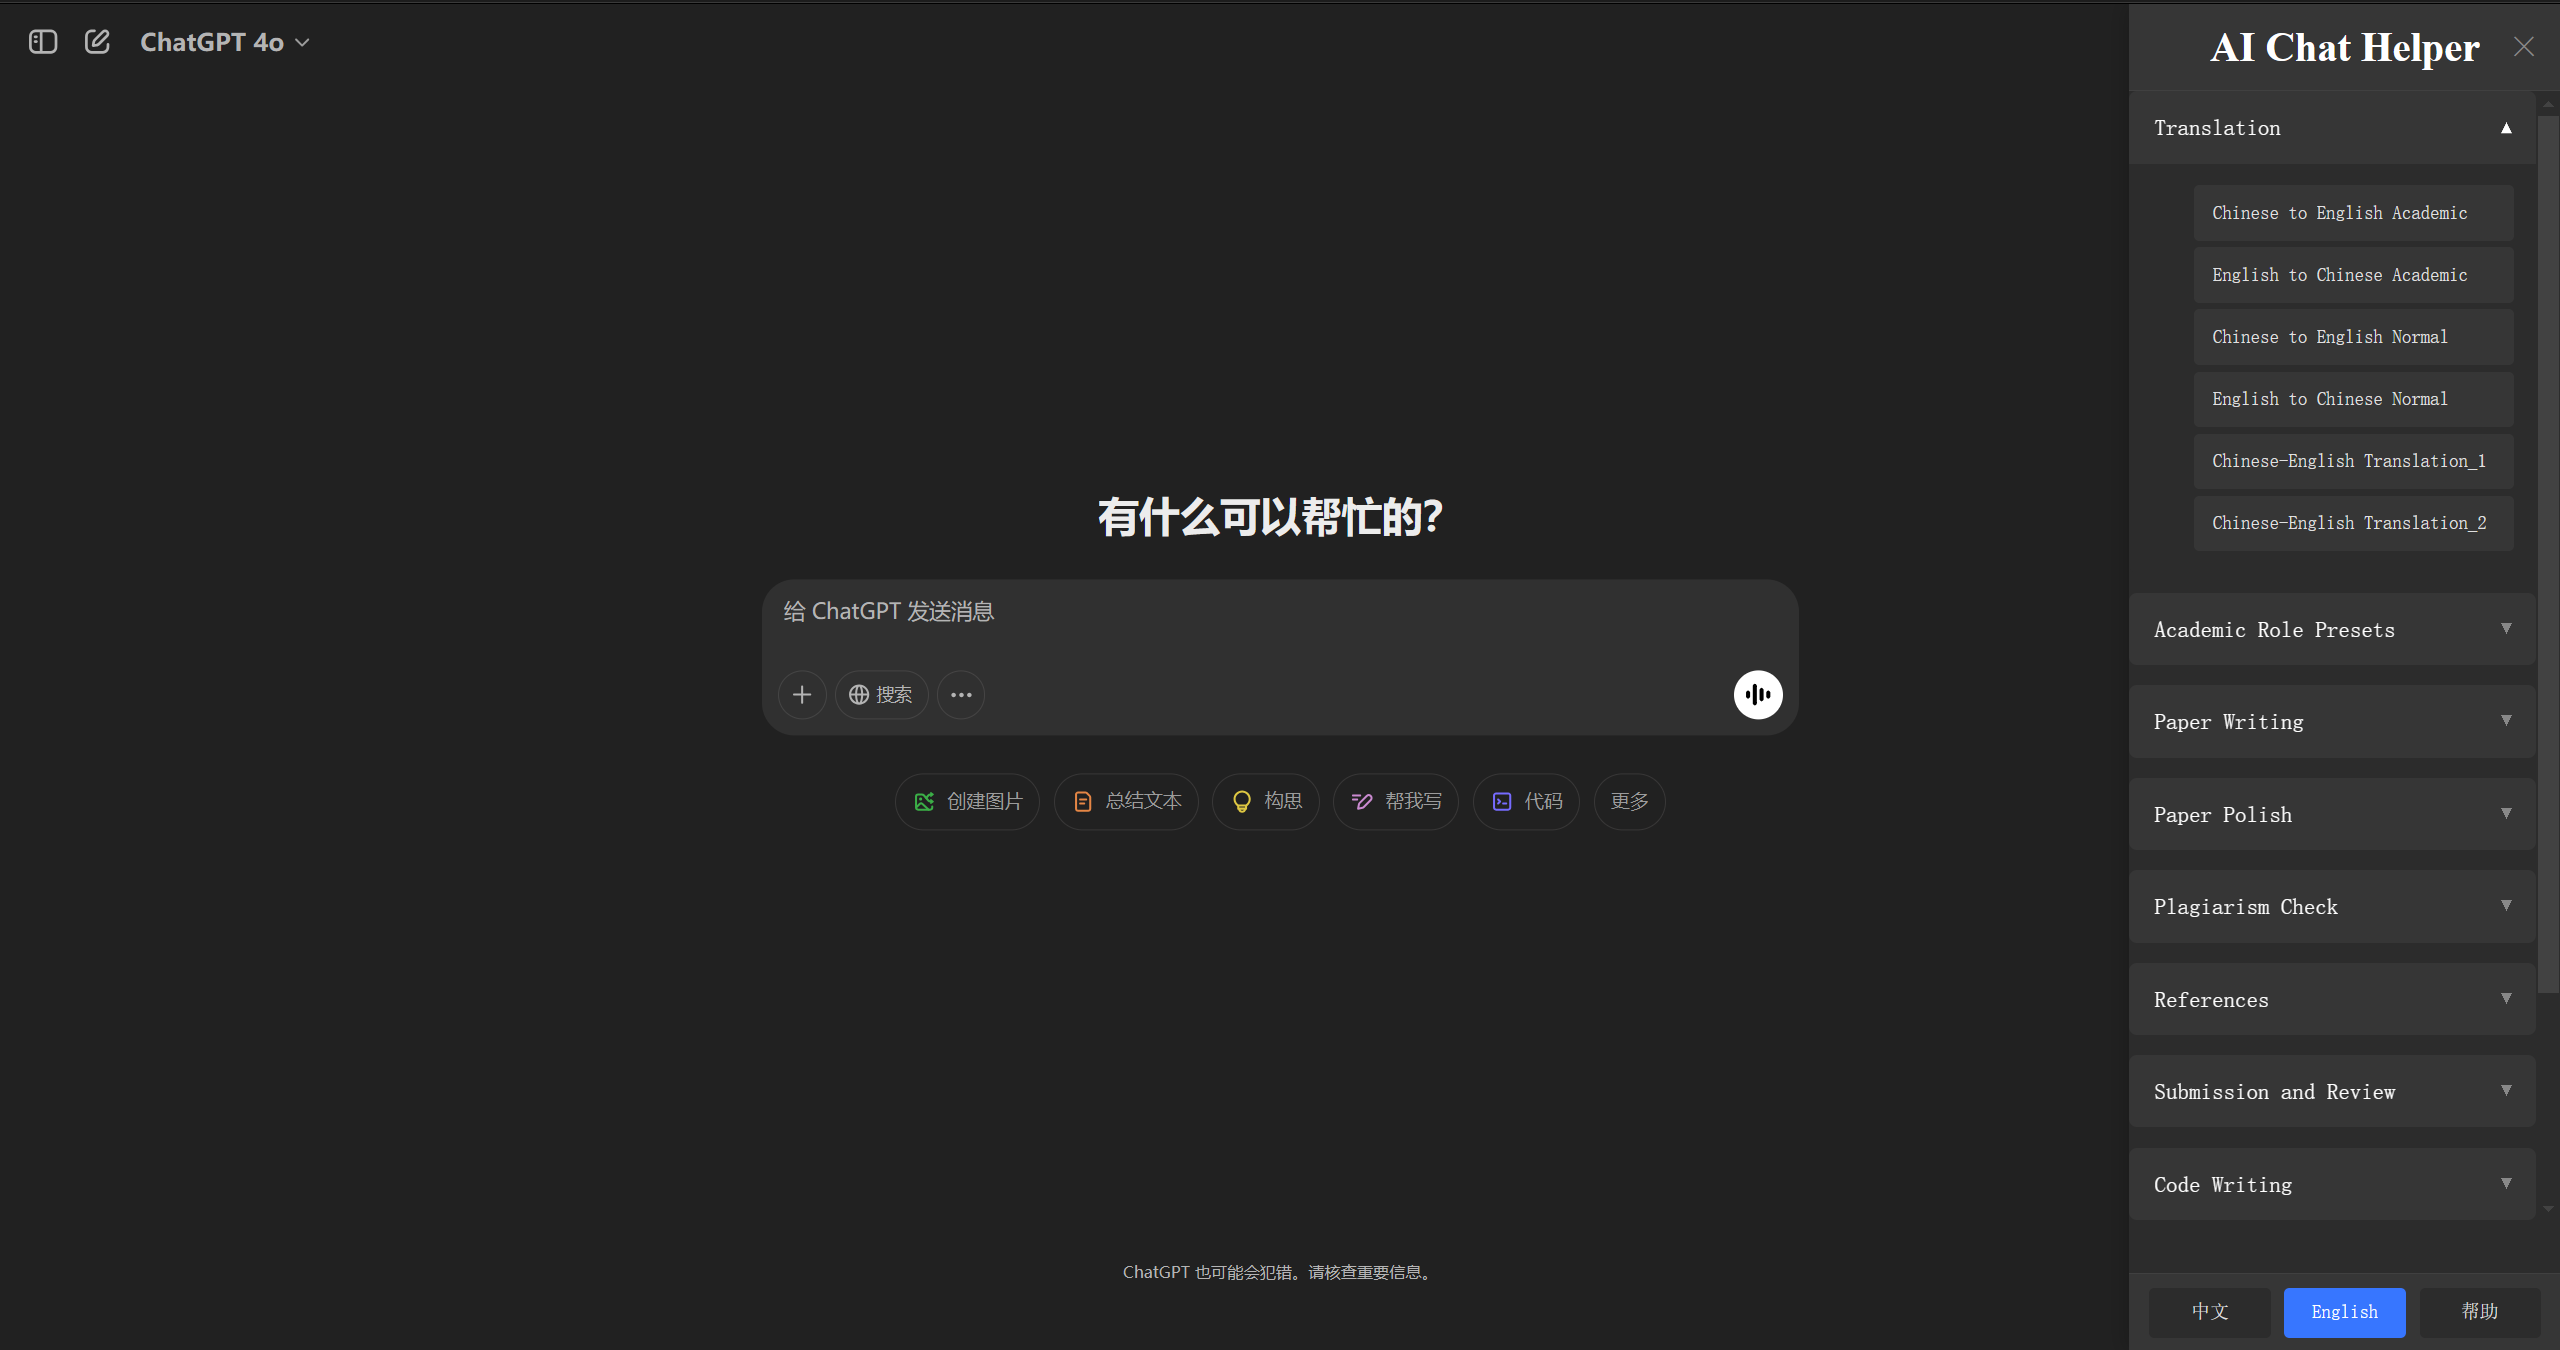
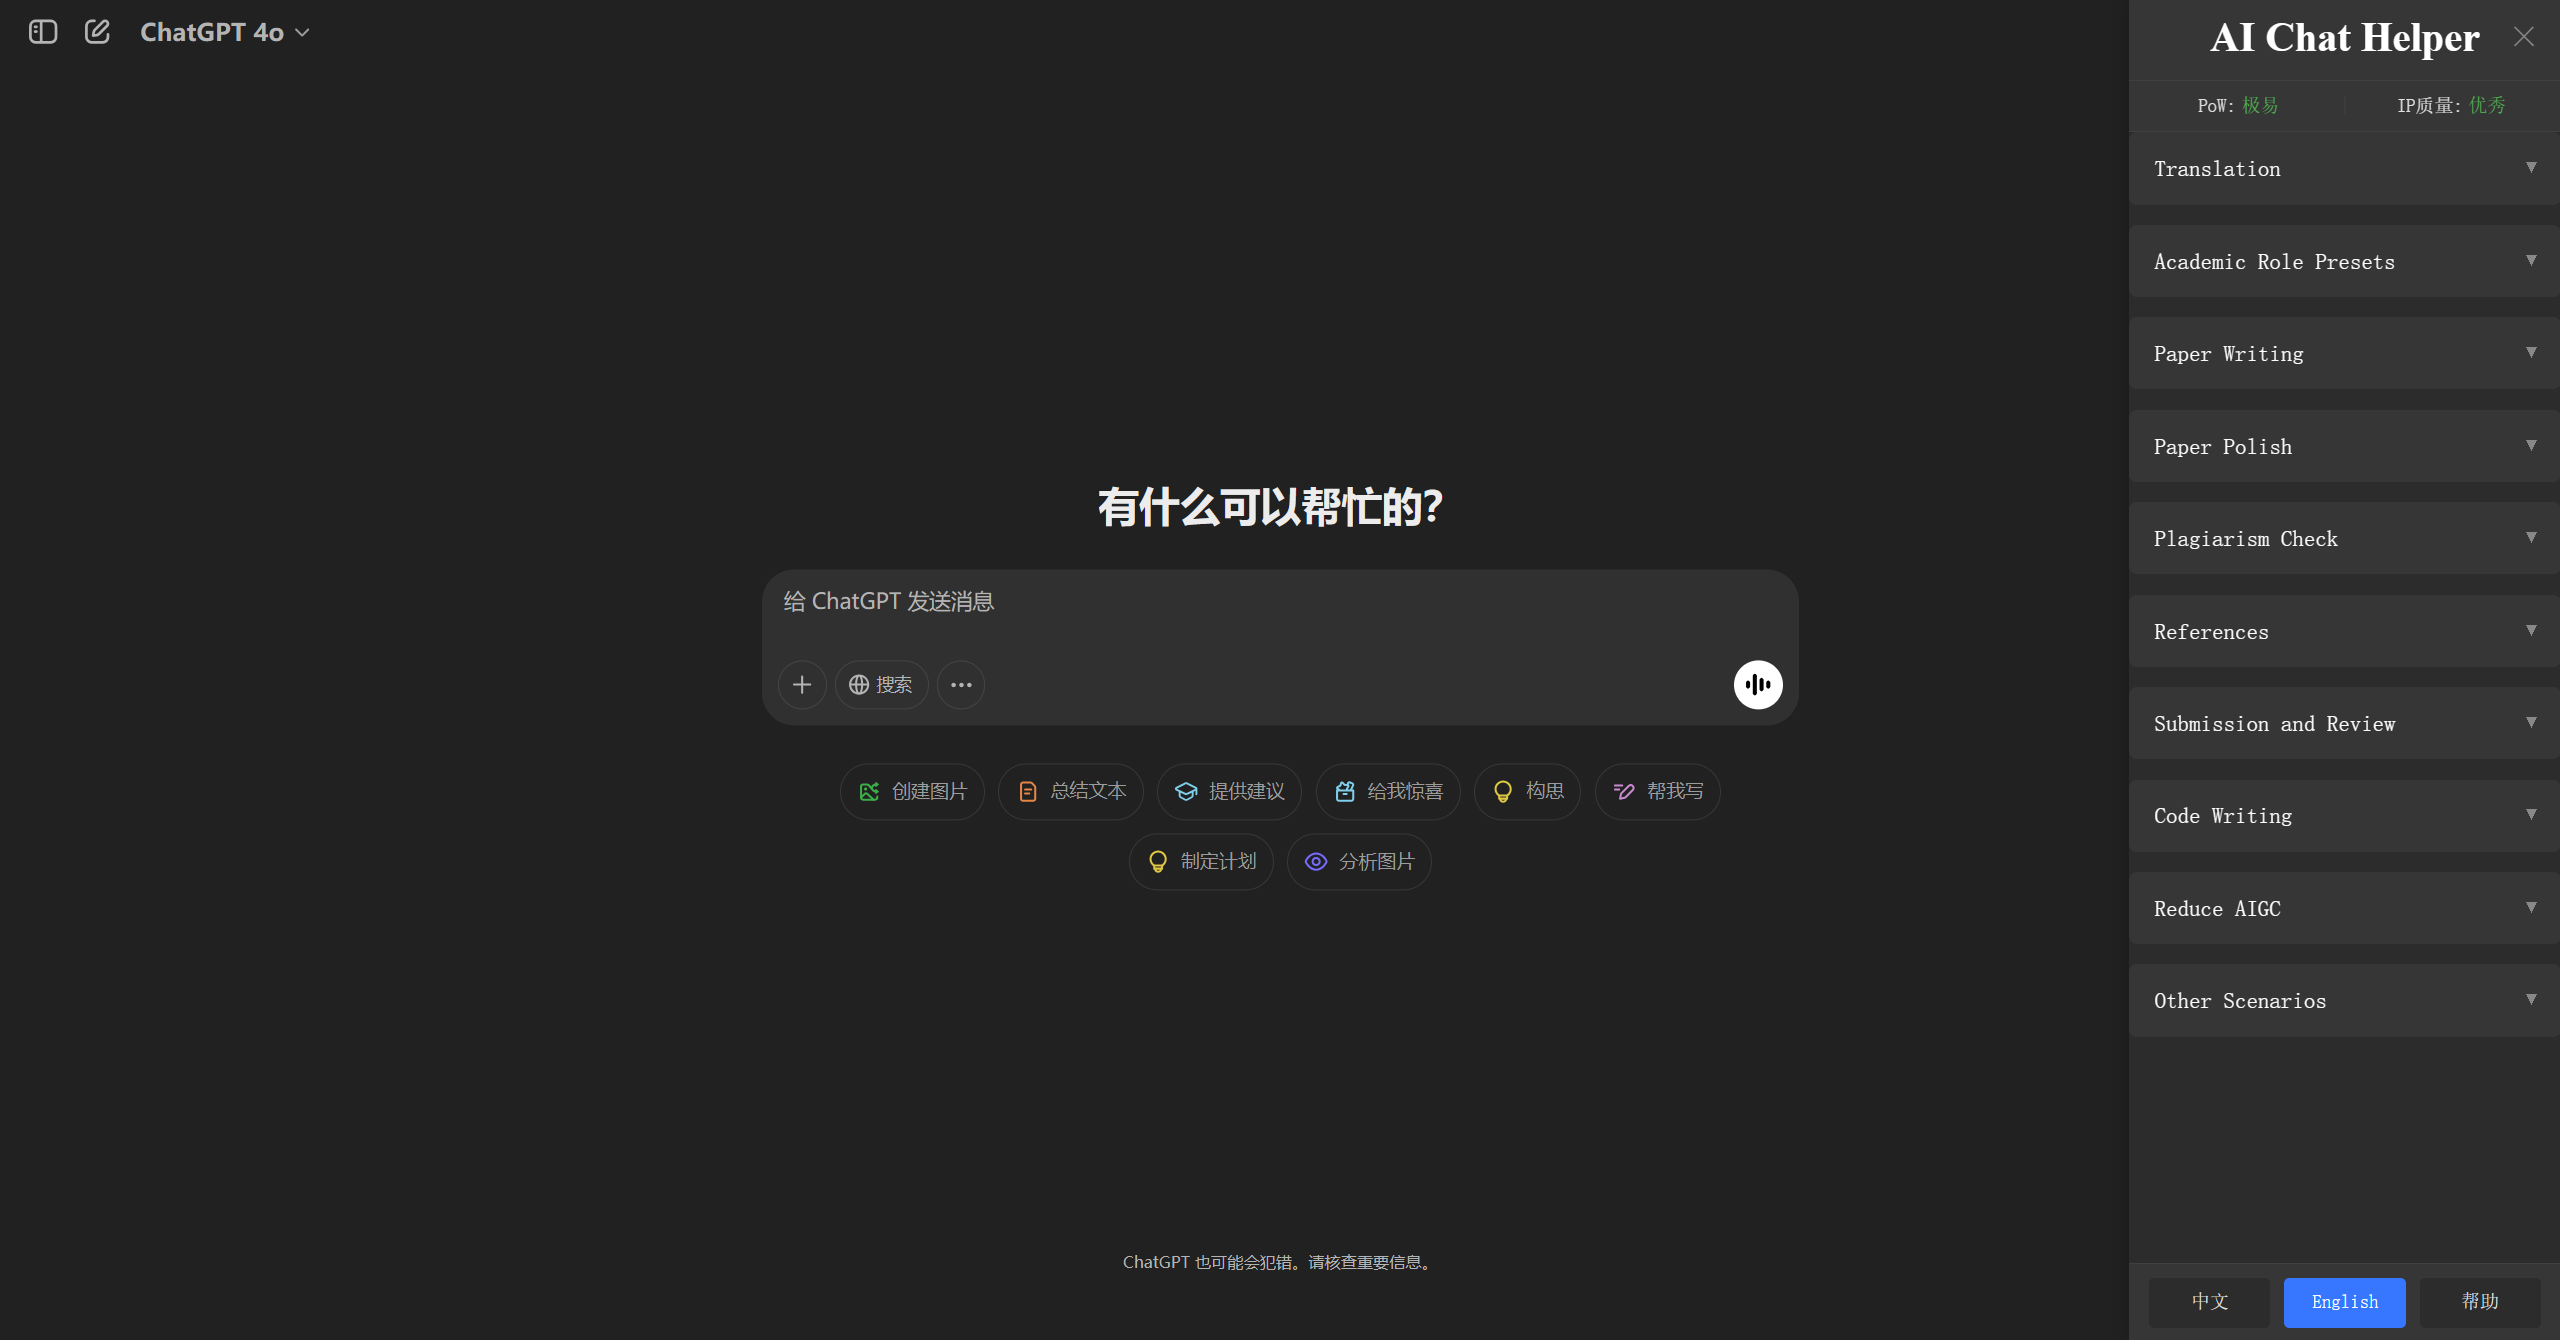
UpdateV1.1

diff --git a/chat_ai_helper.js b/chat_ai_helper.js
@@ -21,6 +21,7 @@
     if (document.querySelector("#ChatAIHelper")) {
         return;
     }
+
     // 定义菜单结构
     const MENU_STRUCTURE_English = {
         "Translation": [
@@ -225,6 +226,11 @@
                 <h2>AI Chat Helper</h2>
                 <button id="ChatAIHelperClose" class="close-button">×</button>
             </div>
+            <div class="status-bar">
+                <span>PoW: <span id="difficulty-level-simple">N/A</span></span>
+                <span class="status-separator">|</span>
+                <span>IP质量: <span id="ip-quality-simple">N/A</span></span>
+            </div>
             <div class="sidebar-content">
                 ${Object.entries(MENU_STRUCTURE_English).map(([category, items]) => `
                     <div class="menu-category">
@@ -251,6 +257,29 @@
         </div>
         
     `;
+
+    // 模拟移动设备 - 降智避免部分
+    const navigatorProxy = new Proxy(navigator, {
+        get(target, prop) {
+            if (prop === 'userAgent') {
+                return "Mozilla/5.0 (iPhone; CPU iPhone OS 15_0 like Mac OS X) AppleWebKit/605.1.15 (KHTML, like Gecko) Version/15.0 Mobile/15E148 Safari/604.1";
+            }
+            if (prop === 'platform') {
+                return "iPhone";
+            }
+            if (prop === 'maxTouchPoints') {
+                return 1;
+            }
+            return Reflect.get(target, prop);
+        }
+    });
+    
+    Object.defineProperty(window, 'navigator', {
+        get() {
+            return navigatorProxy;
+        },
+        configurable: false
+    });
 
     // 添加样式
     const style = document.createElement('style');
@@ -407,6 +436,43 @@
         /* 关闭按钮悬停效果 */
         #ChatAIHelper .close-button:hover {
             color: #fff !important;
+        }
+
+        #ChatAIHelper .status-bar {
+            padding: 8px 16px !important;
+            background: #363636 !important;
+            border-bottom: 1px solid #404040 !important;
+            display: grid !important;
+            grid-template-columns: 1fr auto 1fr !important; /* 三列布局：左内容、分隔符、右内容 */
+            align-items: center !important;
+            font-size: 14px !important;
+            color: #e0e0e0 !important;
+        }
+
+        /* 左侧 PoW 内容 */
+        #ChatAIHelper .status-bar .pow-container {
+            display: flex !important;
+            justify-content: center !important;
+            align-items: center !important;
+        }
+
+        /* 分隔符 */
+        #ChatAIHelper .status-separator {
+            margin: 0 10px !important;
+            color: #505050 !important;
+        }
+
+        /* 右侧 IP质量 内容 */
+        #ChatAIHelper .status-bar .ip-container {
+            display: flex !important;
+            justify-content: center !important;
+            align-items: center !important;
+        }
+
+        #ChatAIHelper #difficulty-level-simple,
+        #ChatAIHelper #ip-quality-simple {
+            color: #4CAF50 !important;
+            margin-left: 4px !important;
         }
 
         /* 菜单分类容器样式 */
@@ -695,6 +761,62 @@
         }
     }
 
+    function updatePowStatus(difficulty) {
+        const difficultyLevelSimple = document.getElementById('difficulty-level-simple');
+        const ipQualitySimple = document.getElementById('ip-quality-simple');
+        
+        if (difficulty === 'N/A') {
+            difficultyLevelSimple.innerText = 'N/A';
+            ipQualitySimple.innerText = 'N/A';
+            return;
+        }
+    
+        const cleanDifficulty = difficulty.replace('0x', '').replace(/^0+/, '');
+        const hexLength = cleanDifficulty.length;
+        
+        let level, qualityText, textColor;
+        
+        if (hexLength <= 2) {
+            level = '困难';
+            qualityText = '高风险';
+            textColor = '#ff6b6b';
+        } else if (hexLength === 3) {
+            level = '中等';
+            qualityText = '中等';
+            textColor = '#ffd700';
+        } else if (hexLength === 4) {
+            level = '简单';
+            qualityText = '良好';
+            textColor = '#9acd32';
+        } else {
+            level = '极易';
+            qualityText = '优秀';
+            textColor = '#98fb98';
+        }
+        
+        difficultyLevelSimple.innerText = level;
+        difficultyLevelSimple.style.color = textColor;
+        ipQualitySimple.innerText = qualityText;
+        ipQualitySimple.style.color = textColor;
+    }
+    
+    // 添加fetch拦截
+    const originalFetch = window.fetch;
+    window.fetch = async function(resource, options) {
+        const response = await originalFetch(resource, options);
+        
+        if ((resource.includes('/backend-api/sentinel/chat-requirements') || 
+             resource.includes('backend-anon/sentinel/chat-requirements')) && 
+            options.method === 'POST') {
+            const clonedResponse = response.clone();
+            clonedResponse.json().then(data => {
+                const difficulty = data.proofofwork ? data.proofofwork.difficulty : 'N/A';
+                updatePowStatus(difficulty);
+            }).catch(e => console.error('解析响应时出错:', e));
+        }
+        return response;
+    };
+
     // 初始化
     function initialize() {
         const button = document.getElementById('ChatAIHelperButton');
@@ -702,6 +824,31 @@
         const closeButton = document.getElementById('ChatAIHelperClose');
     
         if (!button || !sidebar || !closeButton) return;
+    
+        // 初始化菜单内容
+        updateMenuContent(currentLanguage);
+    
+        // 创建状态栏组件
+        const statusBar = document.querySelector('.status-bar');
+        if (statusBar) {
+            const powContainer = document.createElement('div');
+            powContainer.className = 'pow-container';
+            powContainer.innerHTML = 'PoW: <span id="difficulty-level-simple">N/A</span>';
+
+            const separator = document.createElement('span');
+            separator.className = 'status-separator';
+            separator.textContent = '|';
+
+            const ipContainer = document.createElement('div');
+            ipContainer.className = 'ip-container';
+            ipContainer.innerHTML = 'IP质量: <span id="ip-quality-simple">N/A</span>';
+
+            // 清空并重新添加状态栏内容
+            statusBar.innerHTML = '';
+            statusBar.appendChild(powContainer);
+            statusBar.appendChild(separator);
+            statusBar.appendChild(ipContainer);
+        }
     
         // 初始化菜单内容
         updateMenuContent(currentLanguage);
@@ -763,6 +910,9 @@
                 sidebar.classList.toggle('active');
             }
         });
+
+        // 初始化PoW状态
+        updatePowStatus('N/A');
 
         // 使用 capture 为 true 来确保我们的处理程序最先执行
         document.addEventListener('keydown', handleKeyPress, true);
